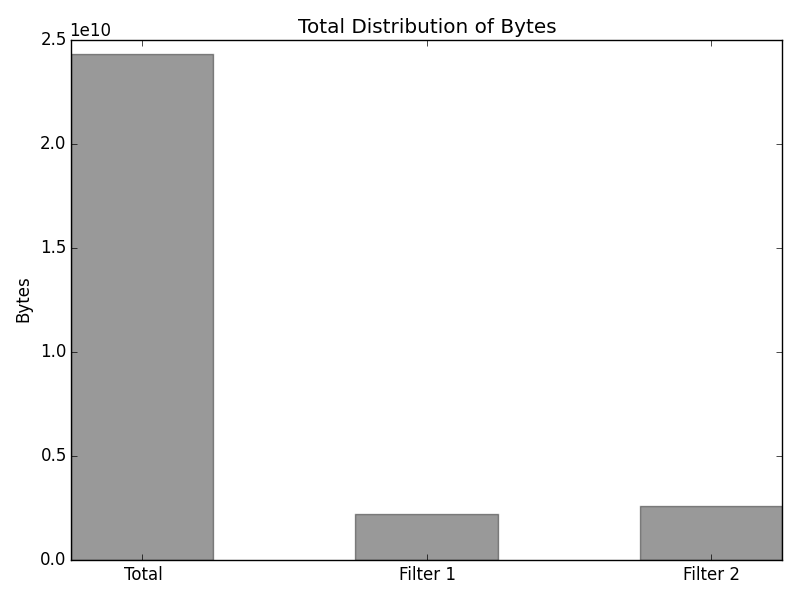
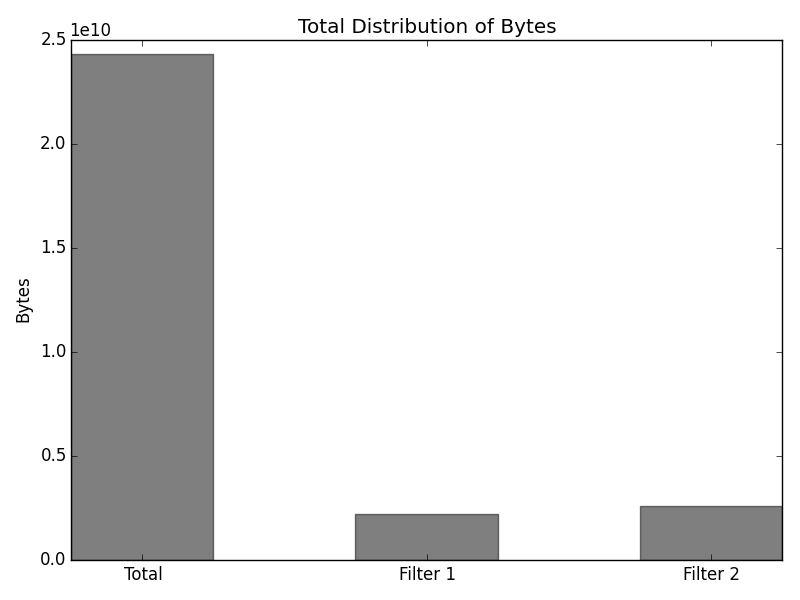
Changed the occupancy of control-graphs

Changed region(s): [[0.0938, 0.09, 0.2812, 0.93], [0.7812, 0.84, 1.0, 0.93], [0.4375, 0.84, 0.625, 0.93]]

diff --git a/graphs/control_bytes.py b/graphs/control_bytes.py
@@ -15,7 +15,7 @@ fig, ax = plt.subplots()
 index = np.arange(n_groups)
 bar_width = 0.5
 
-opacity = 0.4
+opacity = 0.5
 error_config = {'ecolor': '0.3'}
 
 rects1 = plt.bar(index, usage, bar_width,

diff --git a/graphs/control_packets.py b/graphs/control_packets.py
@@ -15,7 +15,7 @@ fig, ax = plt.subplots()
 index = np.arange(n_groups)
 bar_width = 0.5
 
-opacity = 0.4
+opacity = 0.5
 error_config = {'ecolor': '0.3'}
 
 rects1 = plt.bar(index, usage, bar_width,
